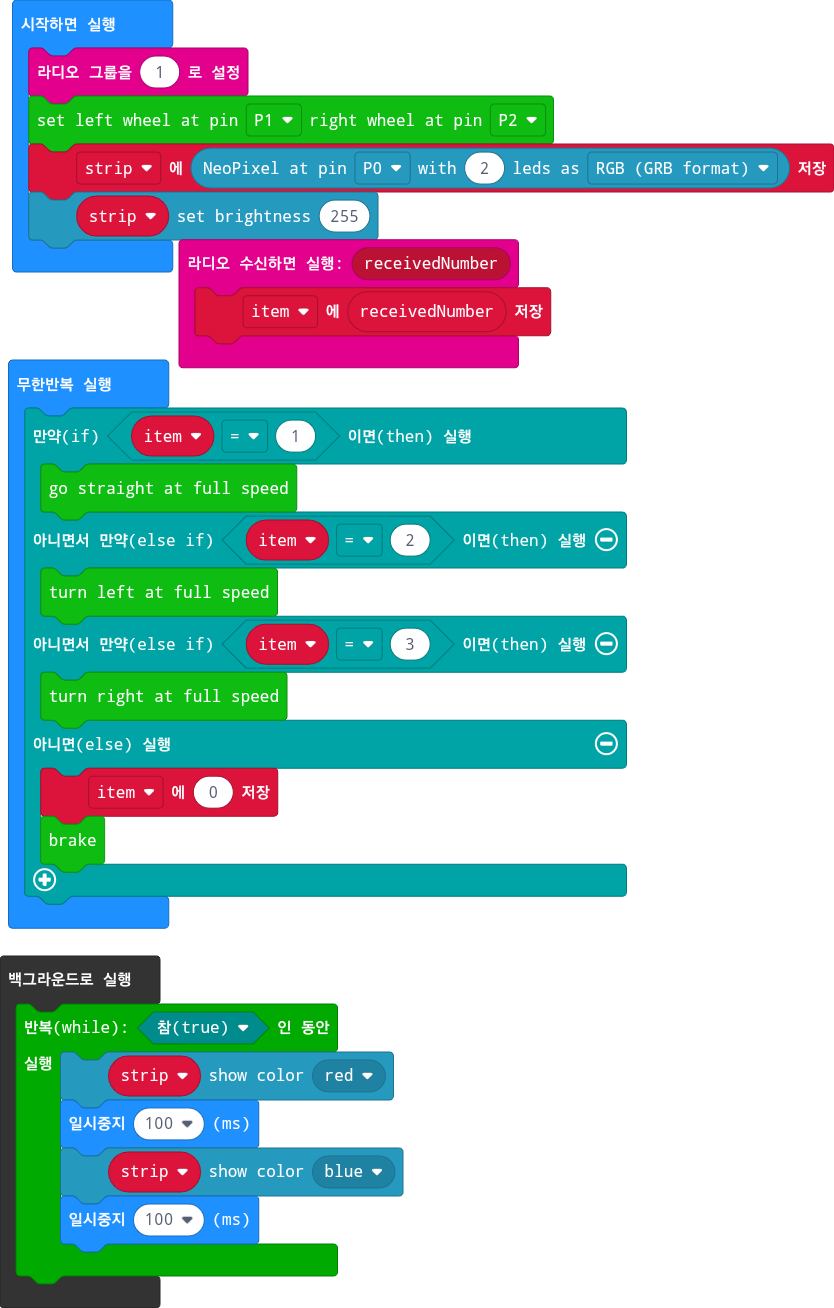
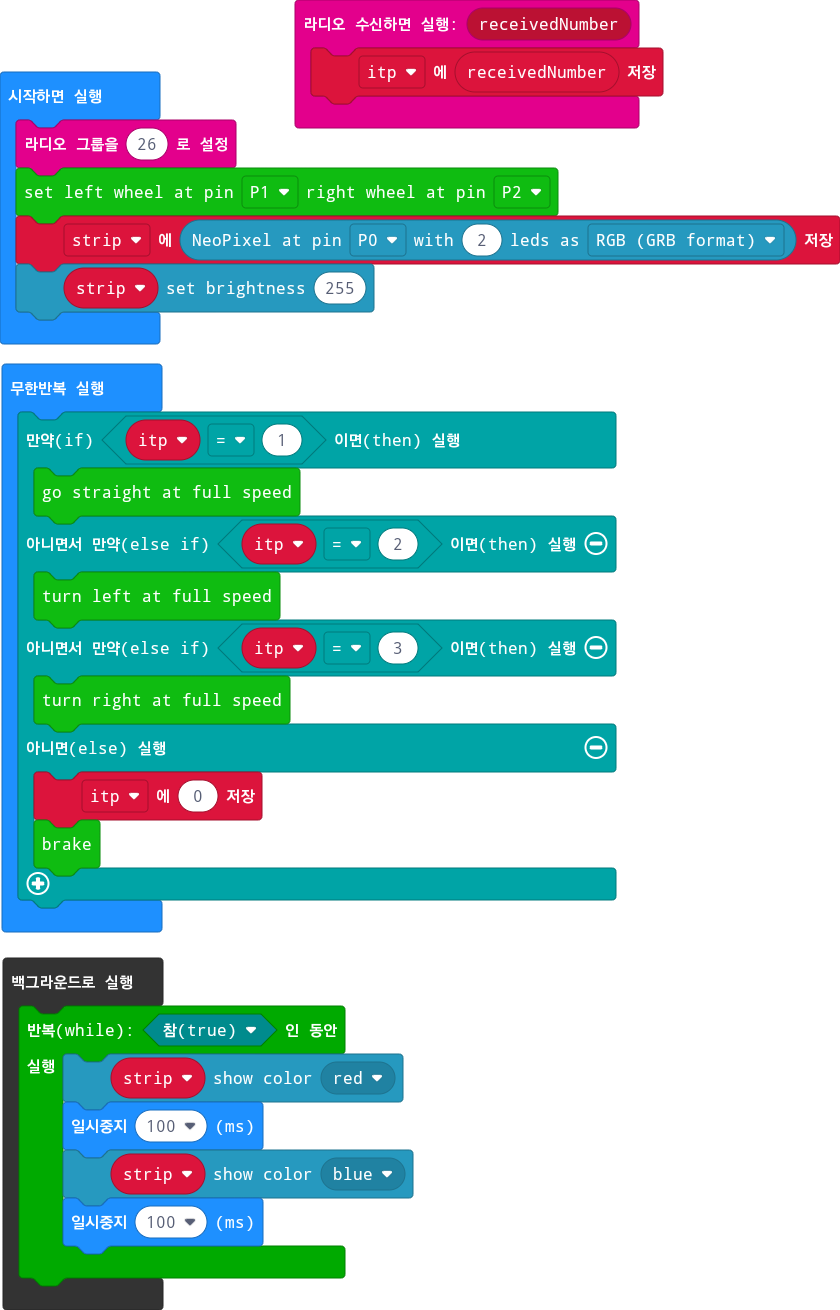
main.blocks, main.ts 업데이트하기

diff --git a/main.ts b/main.ts
@@ -1,20 +1,20 @@
 radio.onReceivedNumber(function (receivedNumber) {
-    item = receivedNumber
+    itp = receivedNumber
 })
-let item = 0
-radio.setGroup(1)
+let itp = 0
+radio.setGroup(26)
 RingbitCar.init_wheel(AnalogPin.P1, AnalogPin.P2)
 let strip = neopixel.create(DigitalPin.P0, 2, NeoPixelMode.RGB)
 strip.setBrightness(255)
 basic.forever(function () {
-    if (item == 1) {
+    if (itp == 1) {
         RingbitCar.forward()
-    } else if (item == 2) {
+    } else if (itp == 2) {
         RingbitCar.turnleft()
-    } else if (item == 3) {
+    } else if (itp == 3) {
         RingbitCar.turnright()
     } else {
-        item = 0
+        itp = 0
         RingbitCar.brake()
     }
 })
